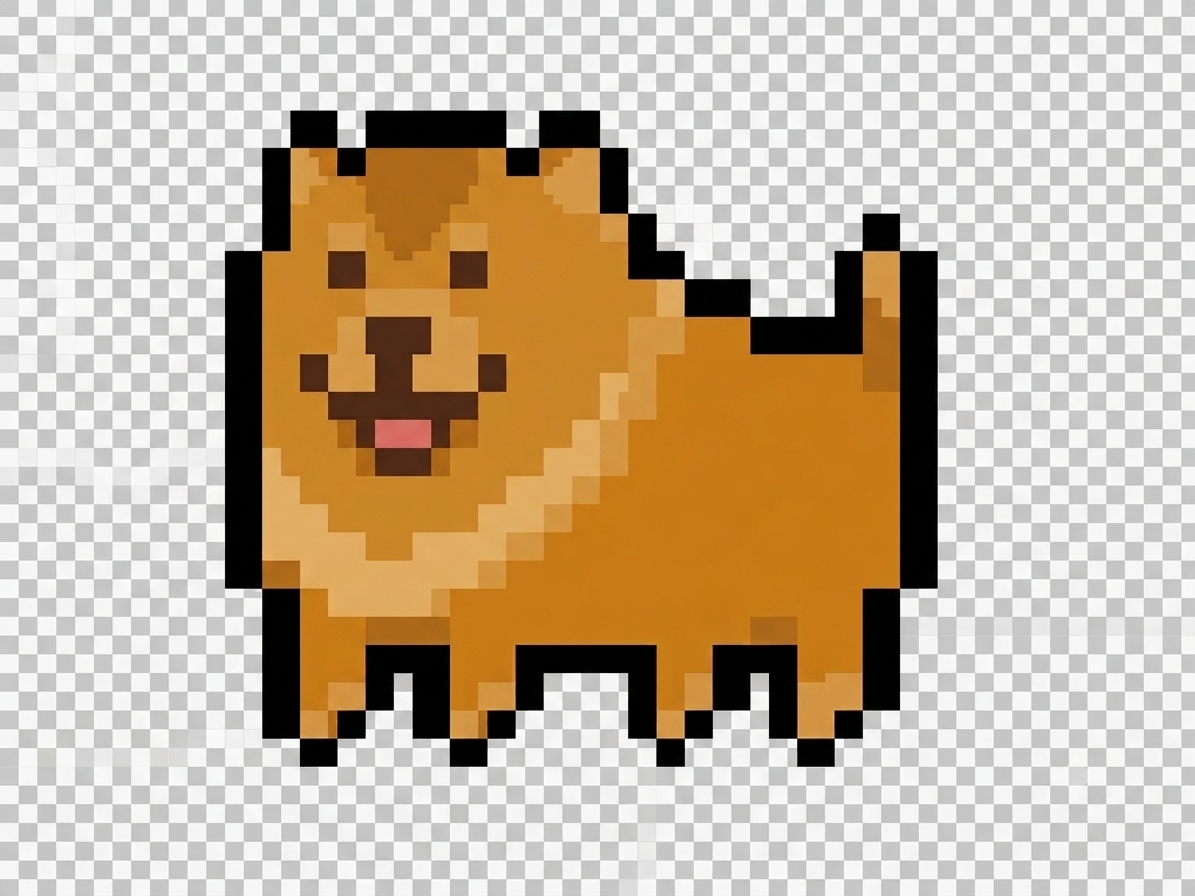
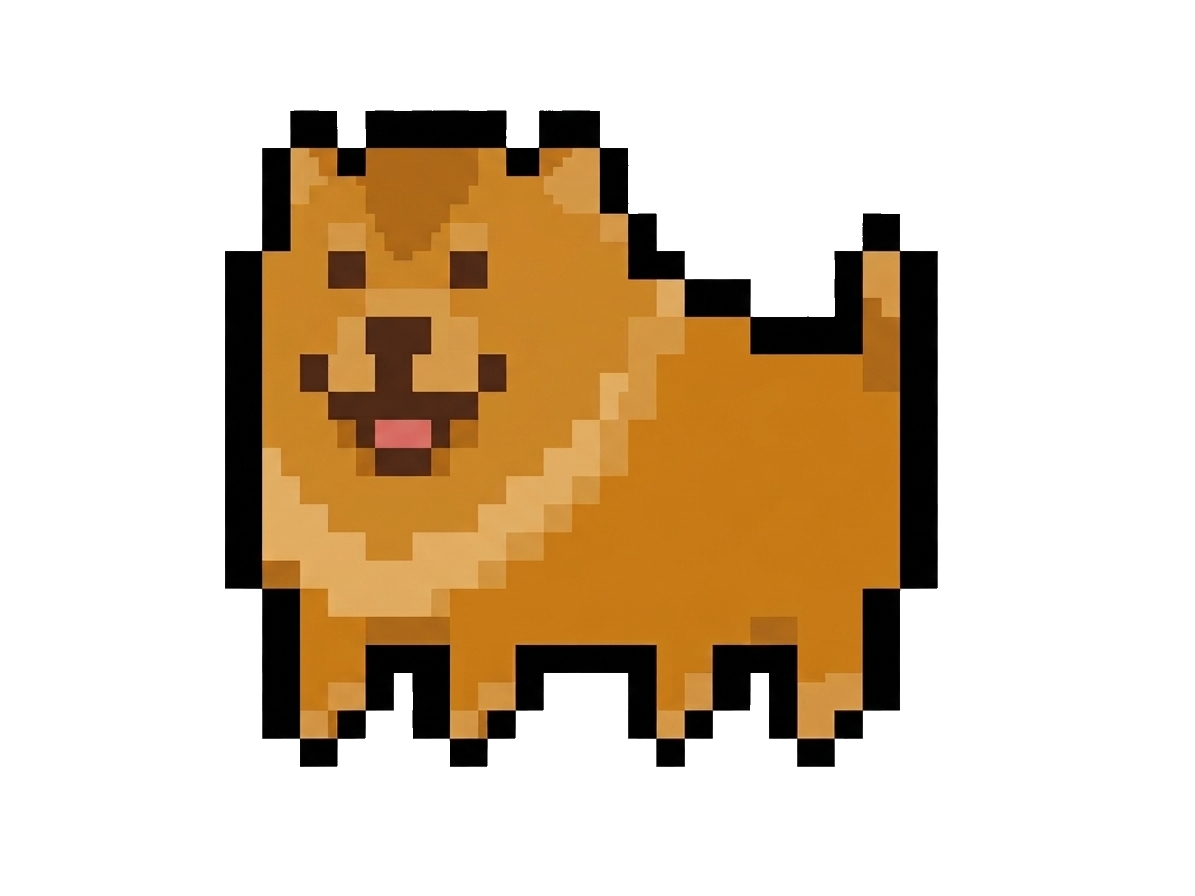
이스터에그 2차 다듬기: brown.png 단일 스프라이트, 투명 배경 처리, 추리형 힌트 추가
- brown.png에 구워져 있던 체커보드 배경을 제거해 실제 투명 PNG로 교체
- 강아지 스프라이트를 brown.png 하나로 통일 (annoying-dog.png 변신 로직 제거)
- 발동 조건을 직접 알려주는 대신 콘솔 메모 + 희미한 발자국 힌트로 추리하게 유도
- 클릭 성공 시 언더테일 텍스트박스 스타일 타이핑 연출과 배너 히트스톱 흔들림 추가

diff --git a/_includes/custom-head.html b/_includes/custom-head.html
@@ -418,17 +418,40 @@ document.addEventListener('DOMContentLoaded', function () {
 });
 </script>
 
-<!-- 이스터에그: 언더테일의 "성가신 개(Annoying Dog)" 오마주. 배너 제목을
-     3초 안에 5번 연속 클릭하면 평면 스프라이트 강아지가 배너 구석에 몰래
-     나타납니다. 강아지를 클릭하면 복슬복슬한 "진짜 모습"(brown.png)으로
-     변신하며 짖고 짧은 대사창을 띄운 뒤 사라집니다. 클릭하지 않고 방치해도
-     6초 뒤 스스로 사라집니다. 배너가 없는 페이지에서는 클릭할 대상 자체가
-     없으므로 자연히 비활성 상태입니다. -->
+<!-- 이스터에그: 언더테일의 "성가신 개(Annoying Dog)" 오마주. 스프라이트는
+     brown.png 하나만 씁니다(체커보드 배경이 구워져 있던 걸 투명 처리했습니다).
+
+     정답을 바로 알려주는 대신 두 가지 단서만 흘려둡니다.
+     1) 콘솔에 남기는 수상한 메모 - 개발자 도구를 열어보는 사람에게만 보임
+     2) 배너 제목 옆에 아주 희미하게 떠 있는 발자국 - 제목에 마우스를 올리면
+        살짝 또렷해져서 "여기가 수상하다"는 촉을 줌
+     실제 정답(제목 3초 안에 5회 연속 클릭)은 어디에도 문장으로 적어두지
+     않고, 위 두 단서를 조합해 추리해야 나옵니다.
+
+     클릭에 성공하면 언더테일 텍스트박스처럼 대사가 한 글자씩 타이핑되며
+     두 줄이 순서대로 나타나고, 짖는 소리와 함께 배너 전체가 짧게
+     "히트스톱"처럼 흔들립니다. 이후 강아지는 옆으로 휙 뛰쳐나가듯
+     사라집니다. 클릭하지 않고 방치해도 6초 뒤 같은 방식으로 떠납니다.
+     배너가 없는 페이지에서는 클릭할 대상 자체가 없어 자연히 비활성입니다. -->
 <style>
+  .dev-dog-clue {
+    display: inline-block;
+    margin-left: 8px;
+    opacity: 0.15;
+    transition: opacity 0.3s ease;
+    user-select: none;
+  }
+
   .dev-dog-wrap {
     position: absolute;
     bottom: 8px;
     z-index: 5;
+    transition: transform 0.25s ease-in, opacity 0.25s ease-in;
+  }
+
+  .dev-dog-wrap.dev-dog-exit {
+    transform: translateX(60px) translateY(6px) scale(0.85);
+    opacity: 0;
   }
 
   .dev-dog {
@@ -442,25 +465,30 @@ document.addEventListener('DOMContentLoaded', function () {
   }
 
   .dev-dog.dev-dog-caught {
-    animation: dev-dog-shake 0.4s ease-in-out;
+    animation: dev-dog-bounce 0.4s ease-in-out;
   }
 
-  .dev-dog-bubble {
+  .dev-dog-textbox {
     position: absolute;
     bottom: 100%;
     left: 50%;
-    transform: translateX(-50%) translateY(-8px);
+    transform: translateX(-50%) translateY(-14px);
+    min-width: 200px;
+    max-width: 240px;
     background: #0e0e0e;
     color: #efe0ad;
     border: 2px solid #efe0ad;
     border-radius: 4px;
-    padding: 6px 10px;
+    padding: 8px 10px;
     font-family: "JetBrains Mono", monospace;
     font-size: 12px;
-    white-space: nowrap;
+    line-height: 1.6;
+    white-space: normal;
     pointer-events: none;
-    opacity: 0;
-    animation: dev-dog-bubble-in 0.2s ease-out 0.35s forwards;
+  }
+
+  .dev-dog-textbox div + div {
+    margin-top: 2px;
   }
 
   @keyframes dev-dog-pop {
@@ -468,26 +496,33 @@ document.addEventListener('DOMContentLoaded', function () {
     to { transform: scale(1); }
   }
 
-  @keyframes dev-dog-shake {
-    0%, 100% { transform: scale(1) rotate(0deg); }
-    25% { transform: scale(1.1) rotate(-6deg); }
-    75% { transform: scale(1.1) rotate(6deg); }
+  @keyframes dev-dog-bounce {
+    0%, 100% { transform: scale(1) translateY(0); }
+    30% { transform: scale(1.08) translateY(-6px); }
+    60% { transform: scale(1.04) translateY(0); }
   }
 
-  @keyframes dev-dog-bubble-in {
-    to { opacity: 1; transform: translateX(-50%) translateY(-14px); }
+  @keyframes dev-banner-hitshake {
+    0%, 100% { transform: translateX(0); }
+    20% { transform: translateX(-5px); }
+    40% { transform: translateX(4px); }
+    60% { transform: translateX(-3px); }
+    80% { transform: translateX(2px); }
+  }
+
+  .page-banner.dev-banner-hitshake {
+    animation: dev-banner-hitshake 0.3s ease-in-out;
   }
 
   @media (prefers-reduced-motion: reduce) {
     .dev-dog,
-    .dev-dog.dev-dog-caught {
+    .dev-dog.dev-dog-caught,
+    .page-banner.dev-banner-hitshake {
       animation: none;
     }
 
-    .dev-dog-bubble {
-      animation: none;
-      opacity: 1;
-      transform: translateX(-50%) translateY(-14px);
+    .dev-dog-wrap.dev-dog-exit {
+      transition: none;
     }
   }
 </style>
@@ -497,19 +532,46 @@ document.addEventListener('DOMContentLoaded', function () {
   var banner = document.querySelector('.page-banner');
   if (!heading || !banner) return;
 
-  var DOG_SPRITE = "{{ '/assets/images/annoying-dog.png' | relative_url }}";
-  var DOG_REAL = "{{ '/assets/images/brown.png' | relative_url }}";
+  var prefersReduced = window.matchMedia &&
+    window.matchMedia('(prefers-reduced-motion: reduce)').matches;
+
+  var DOG_IMG = "{{ '/assets/images/brown.png' | relative_url }}";
   var BARK_SRC = "{{ '/assets/audio/bark.mp3' | relative_url }}";
-  var LINES = ['* 멍!', '* 방해 완료.', '* 진짜 모습을 드러냈다!', '* ...만족스러운 표정이다.'];
+
+  // 두 줄씩 짝지어 랜덤으로 하나를 골라 보여줌
+  var LINE_SETS = [
+    ['* 어디선가 나타난 강아지가 당신을 물끄러미 바라본다.', '* 그리고, 우렁차게 짖었다!'],
+    ['* 이 강아지는 방문자 수에 집계되지 않는다.', '* 그래도 분명히, 여기 있다.'],
+    ['* 강아지가 만족스러운 표정을 짓는다.', '* 오늘의 방해 업무, 완료.'],
+    ['* 당신은 이 개의 진짜 모습을 보고 말았다.', '* 앞으로 계속 신경 쓰일 것이다.']
+  ];
+
   var CLICKS_NEEDED = 5;
   var CLICK_WINDOW_MS = 3000;
   var AUTO_LEAVE_MS = 6000;
 
-  // 캔버스(금가루 이펙트)를 절대 위치로 얹기 위해 배너에는 이미 position이
-  // 지정돼 있을 가능성이 높지만, 혹시 없는 경우를 대비해 안전하게 확인
   if (getComputedStyle(banner).position === 'static') {
     banner.style.position = 'relative';
   }
+
+  // 단서 1: 콘솔 메모. 정답을 그대로 말하지 않고 "다섯 번 인사"라는
+  // 조각만 흘려서, 옆에 있는 발자국 힌트와 합쳐야 뜻이 통하게 함
+  console.log(
+    '%c🐾 이 근처에서 발소리가 들리는 것 같다...%c\n누군가 반갑다고 다섯 번 인사하면, 나타날지도?',
+    'color:#8C8863;font-weight:bold;',
+    'color:#8C8863;font-style:italic;'
+  );
+
+  // 단서 2: 제목 옆 희미한 발자국. 평소엔 거의 안 보이다가 제목에 마우스를
+  // 올리면 살짝 또렷해짐
+  var clue = document.createElement('span');
+  clue.className = 'dev-dog-clue';
+  clue.textContent = '🐾';
+  clue.setAttribute('aria-hidden', 'true');
+  heading.appendChild(clue);
+
+  heading.addEventListener('mouseenter', function () { clue.style.opacity = '0.4'; });
+  heading.addEventListener('mouseleave', function () { clue.style.opacity = '0.15'; });
 
   var clickCount = 0;
   var clickTimer = null;
@@ -537,13 +599,13 @@ document.addEventListener('DOMContentLoaded', function () {
     wrap.style.left = (10 + Math.random() * 70) + '%';
 
     var img = document.createElement('img');
-    img.src = DOG_SPRITE;
+    img.src = DOG_IMG;
     img.alt = '';
     img.className = 'dev-dog';
     wrap.appendChild(img);
     banner.appendChild(wrap);
 
-    var autoLeave = setTimeout(remove, AUTO_LEAVE_MS);
+    var autoLeave = setTimeout(function () { leave(); }, AUTO_LEAVE_MS);
 
     img.addEventListener('click', function (e) {
       e.stopPropagation();
@@ -552,26 +614,67 @@ document.addEventListener('DOMContentLoaded', function () {
     });
 
     function caught() {
-      img.src = DOG_REAL;
       img.classList.add('dev-dog-caught');
+      hitShake();
 
       try {
         new Audio(BARK_SRC).play().catch(function () {});
       } catch (e) {}
 
-      var bubble = document.createElement('div');
-      bubble.className = 'dev-dog-bubble';
-      bubble.textContent = LINES[Math.floor(Math.random() * LINES.length)];
-      wrap.appendChild(bubble);
+      var box = document.createElement('div');
+      box.className = 'dev-dog-textbox';
+      wrap.appendChild(box);
 
-      setTimeout(remove, 1800);
+      var lines = LINE_SETS[Math.floor(Math.random() * LINE_SETS.length)].slice();
+      playLines(box, lines, function () {
+        setTimeout(leave, 700);
+      });
     }
 
-    function remove() {
-      if (!wrap.parentNode) return;
-      wrap.parentNode.removeChild(wrap);
-      dogActive = false;
+    function leave() {
+      wrap.classList.add('dev-dog-exit');
+      setTimeout(function () {
+        if (wrap.parentNode) wrap.parentNode.removeChild(wrap);
+        dogActive = false;
+      }, prefersReduced ? 0 : 250);
     }
+  }
+
+  function hitShake() {
+    if (prefersReduced) return;
+    banner.classList.add('dev-banner-hitshake');
+    setTimeout(function () { banner.classList.remove('dev-banner-hitshake'); }, 300);
+  }
+
+  // 언더테일 텍스트박스처럼 한 글자씩 타이핑하며 줄을 순서대로 쌓음
+  function playLines(box, lines, done) {
+    if (!lines.length) { done(); return; }
+
+    var line = lines.shift();
+    var p = document.createElement('div');
+    box.appendChild(p);
+
+    typeLine(p, line, function () {
+      setTimeout(function () { playLines(box, lines, done); }, lines.length ? 700 : 0);
+    });
+  }
+
+  function typeLine(el, text, done) {
+    if (prefersReduced) {
+      el.textContent = text;
+      done();
+      return;
+    }
+
+    var i = 0;
+    var timer = setInterval(function () {
+      i++;
+      el.textContent = text.slice(0, i);
+      if (i >= text.length) {
+        clearInterval(timer);
+        done();
+      }
+    }, 35);
   }
 });
 </script>
